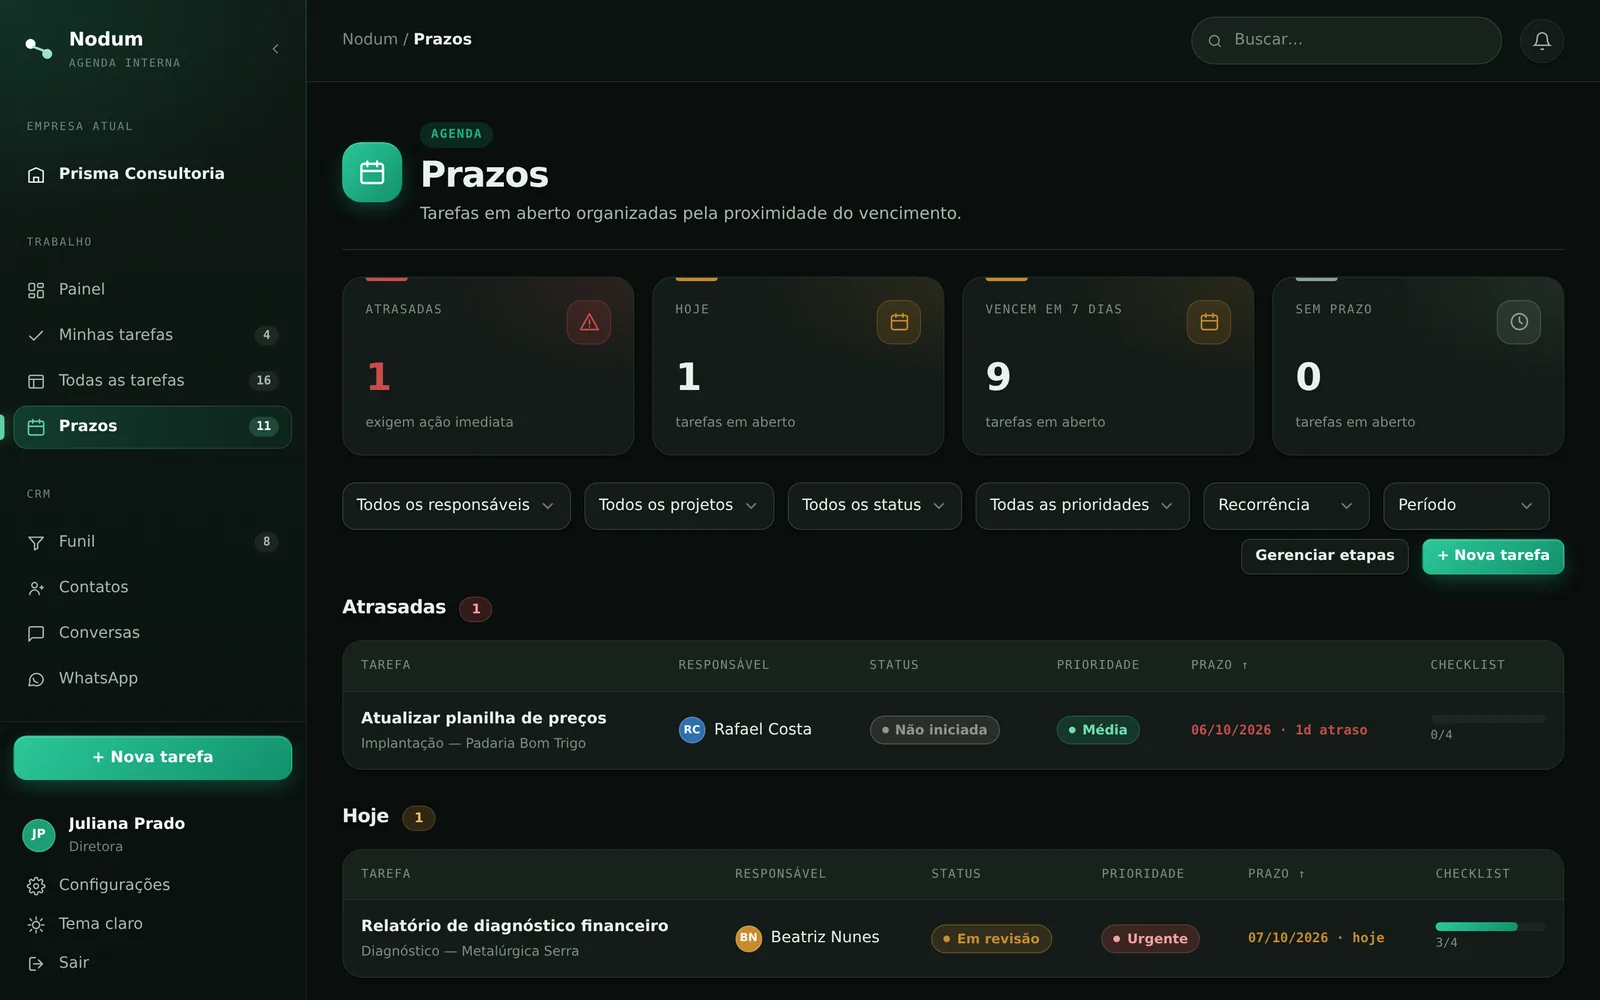
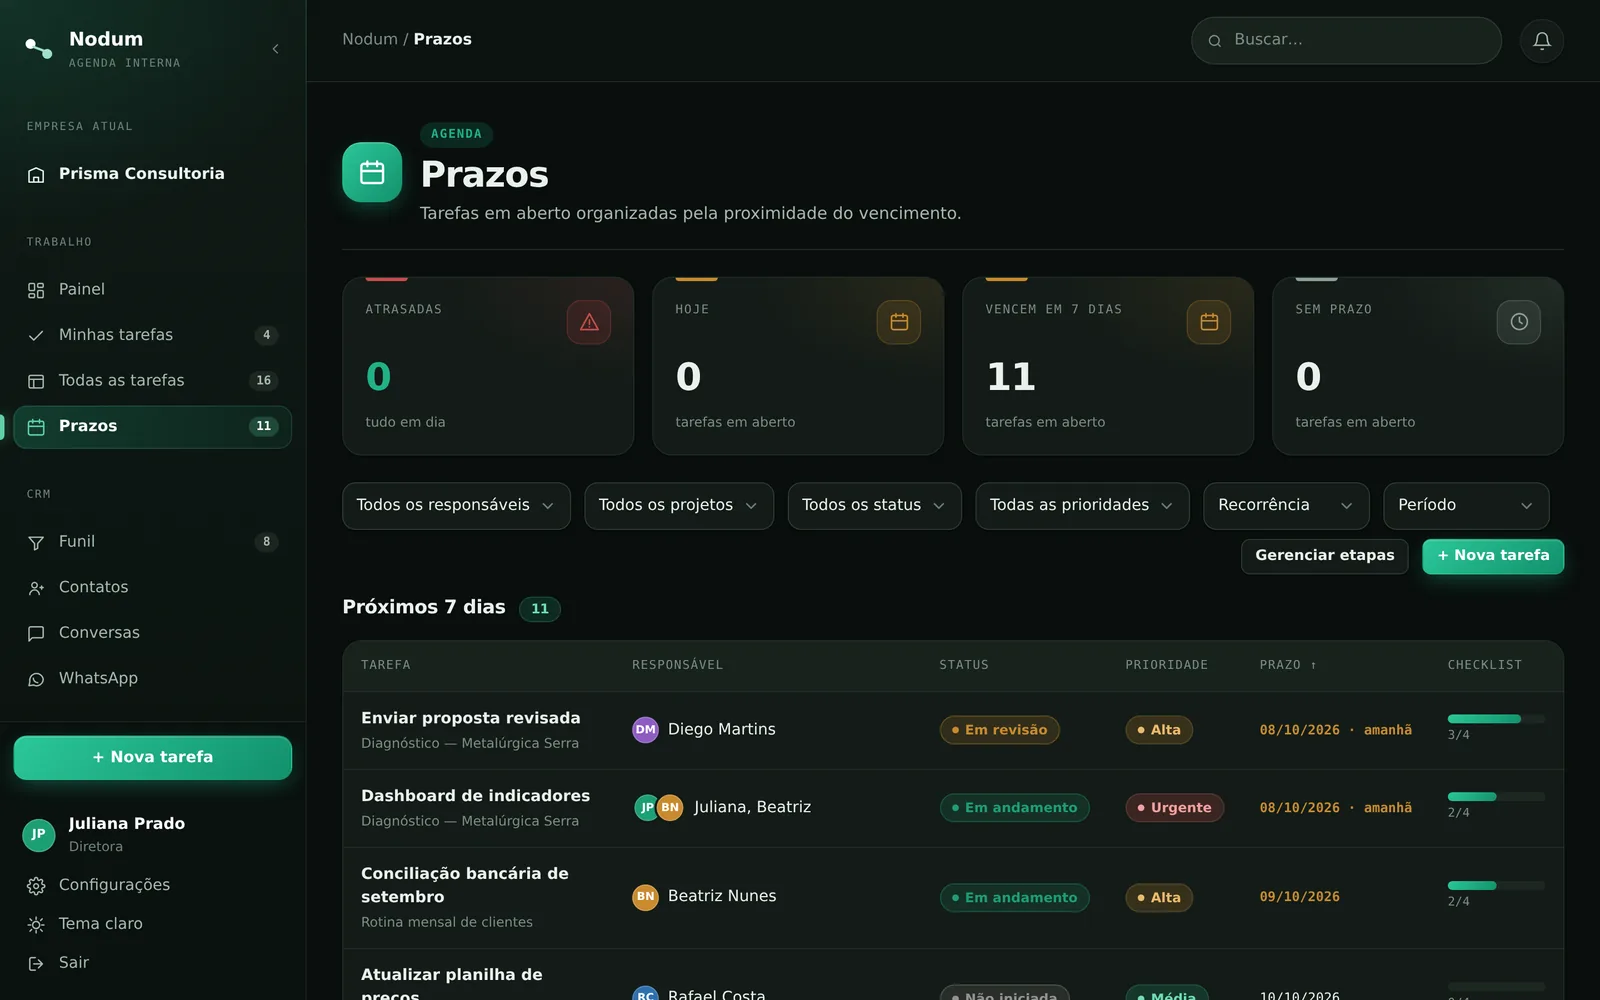
Prints mais limpos nas LPs: sem avisos, pendências e atrasos
NodumBarber: demo refotografada num horário sem agendamento em aberto e
com e-mail confirmado — some o aviso de "agendamentos em aberto", o de
confirmação de e-mail e o card de pendentes do Início. Agenda sem cartão
cortado no topo; link do agendamento online com o domínio real.

Agenda Interna: sem contas atrasadas nem tarefas vencidas na demo — some
o alerta de contas, o card "contas em atraso/vencendo" e o selo
"Atrasada". Sai a aba "Alerta de atraso" do financeiro; números da
seção batem com o print do painel financeiro.

Claude-Session: https://claude.ai/code/session_01BeF81MoUb3xi4Zp6ngW9tk

diff --git a/lib/agenda.ts b/lib/agenda.ts
@@ -150,9 +150,9 @@ export const financeiroAgenda = {
   texto:
     "Contas a pagar e a receber, cartão de crédito com fatura que soma sozinha e um painel que mostra o saldo disponível, o que vence nos próximos dias e o saldo previsto. Conta atrasada aparece no Painel, com alerta, até alguém resolver.",
   numeros: [
-    { rotulo: "A pagar", valor: 4950.25, cor: "text-[#e5484d]" },
-    { rotulo: "A receber", valor: 10500, cor: "text-forest-400" },
-    { rotulo: "Saldo previsto", valor: 5549.75, cor: "text-white" },
+    { rotulo: "A pagar", valor: 4760.35, cor: "text-[#e5484d]" },
+    { rotulo: "A receber", valor: 7700, cor: "text-forest-400" },
+    { rotulo: "Saldo previsto", valor: 8649.75, cor: "text-white" },
   ],
   telas: [
     {
@@ -166,12 +166,6 @@ export const financeiroAgenda = {
       src: "/img/agenda/v2/contas-pagar.webp",
       texto:
         "Boleto, PIX ou cartão. Conta recorrente (aluguel, internet, sistema) gera a próxima sozinha quando a atual é paga.",
-    },
-    {
-      aba: "Alerta de atraso",
-      src: "/img/agenda/v2/alerta-contas.webp",
-      texto:
-        "Ao entrar no sistema, as contas vencidas sem pagamento aparecem num aviso — com a opção de não mostrar de novo.",
     },
   ],
   itens: [

diff --git a/components/agenda/financeiro.tsx b/components/agenda/financeiro.tsx
@@ -42,7 +42,7 @@ export function FinanceiroAgenda() {
               <div className="card p-5">
                 <p className="font-mono text-[11px] uppercase tracking-widest text-muted">{n.rotulo}</p>
                 <p className={cn("mt-3 font-mono text-3xl font-bold tabular-nums", n.cor)}>{brl(n.valor)}</p>
-                <p className="mt-1 text-xs text-muted">empresa de demonstração · próximos 30 dias</p>
+                <p className="mt-1 text-xs text-muted">empresa de demonstração · mês atual</p>
               </div>
             </Reveal>
           ))}
